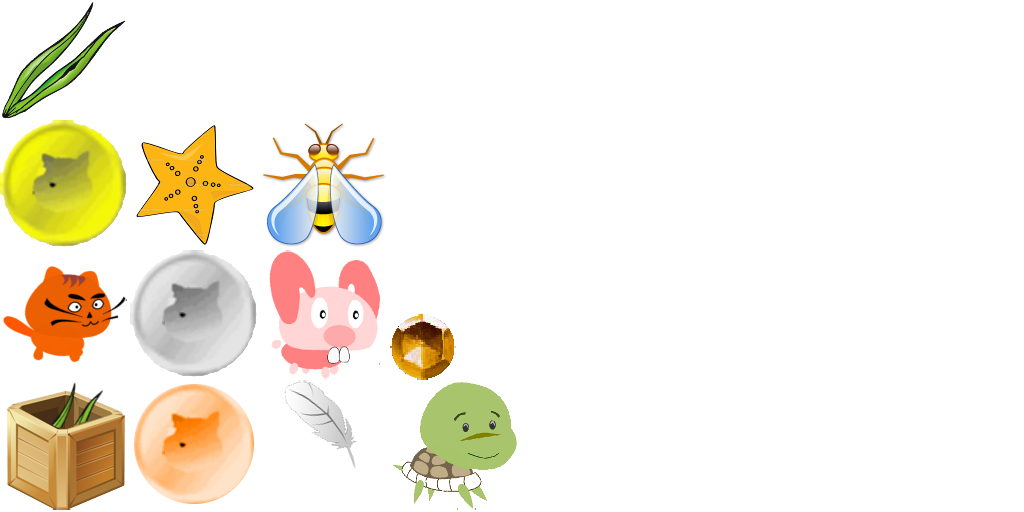
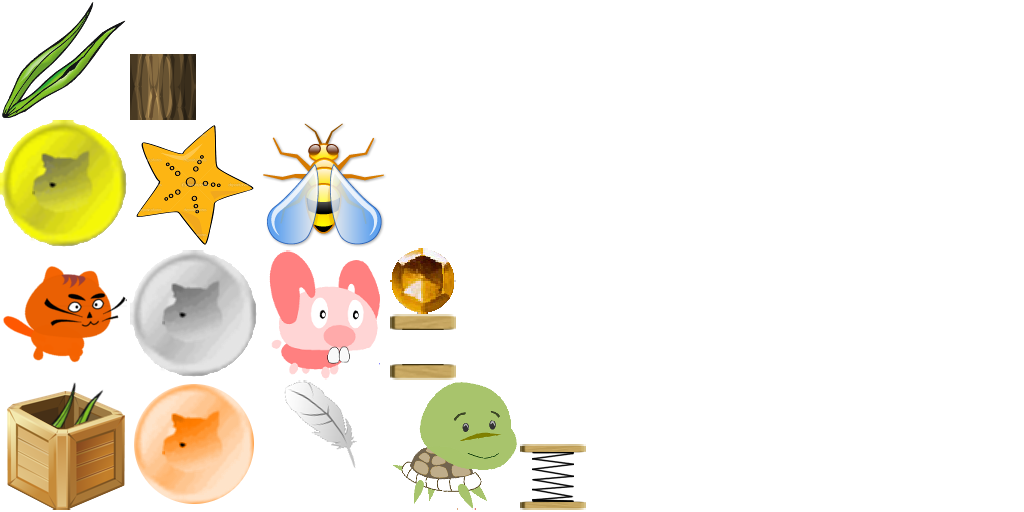
intégration d'images supplémentaires

Changed region(s): [[0.375, 0.4688, 0.4688, 0.75], [0.125, 0.0938, 0.2188, 0.25], [0.5, 0.8438, 0.5938, 1.0]]

diff --git a/rollingcat/src/fr/lirmm/smile/rollingcat/model/game/GroundBlock.java b/rollingcat/src/fr/lirmm/smile/rollingcat/model/game/GroundBlock.java
@@ -3,6 +3,7 @@ package fr.lirmm.smile.rollingcat.model.game;
 import com.badlogic.gdx.scenes.scene2d.Touchable;
 
 import fr.lirmm.smile.rollingcat.GameConstants;
+import fr.lirmm.smile.rollingcat.RollingCat;
 
 public class GroundBlock extends Entity {
 
@@ -12,7 +13,7 @@ public class GroundBlock extends Entity {
 	 * @param y
 	 */
 	public GroundBlock(float x, float y) {
-		super(x, y, GameConstants.TEXTURE_GROUNDBLOCK);
+		super(x, y, GameConstants.TEXTURE_GROUNDBLOCK+RollingCat.skin);
 		this.setTouchable(Touchable.disabled);
 	}
 	
